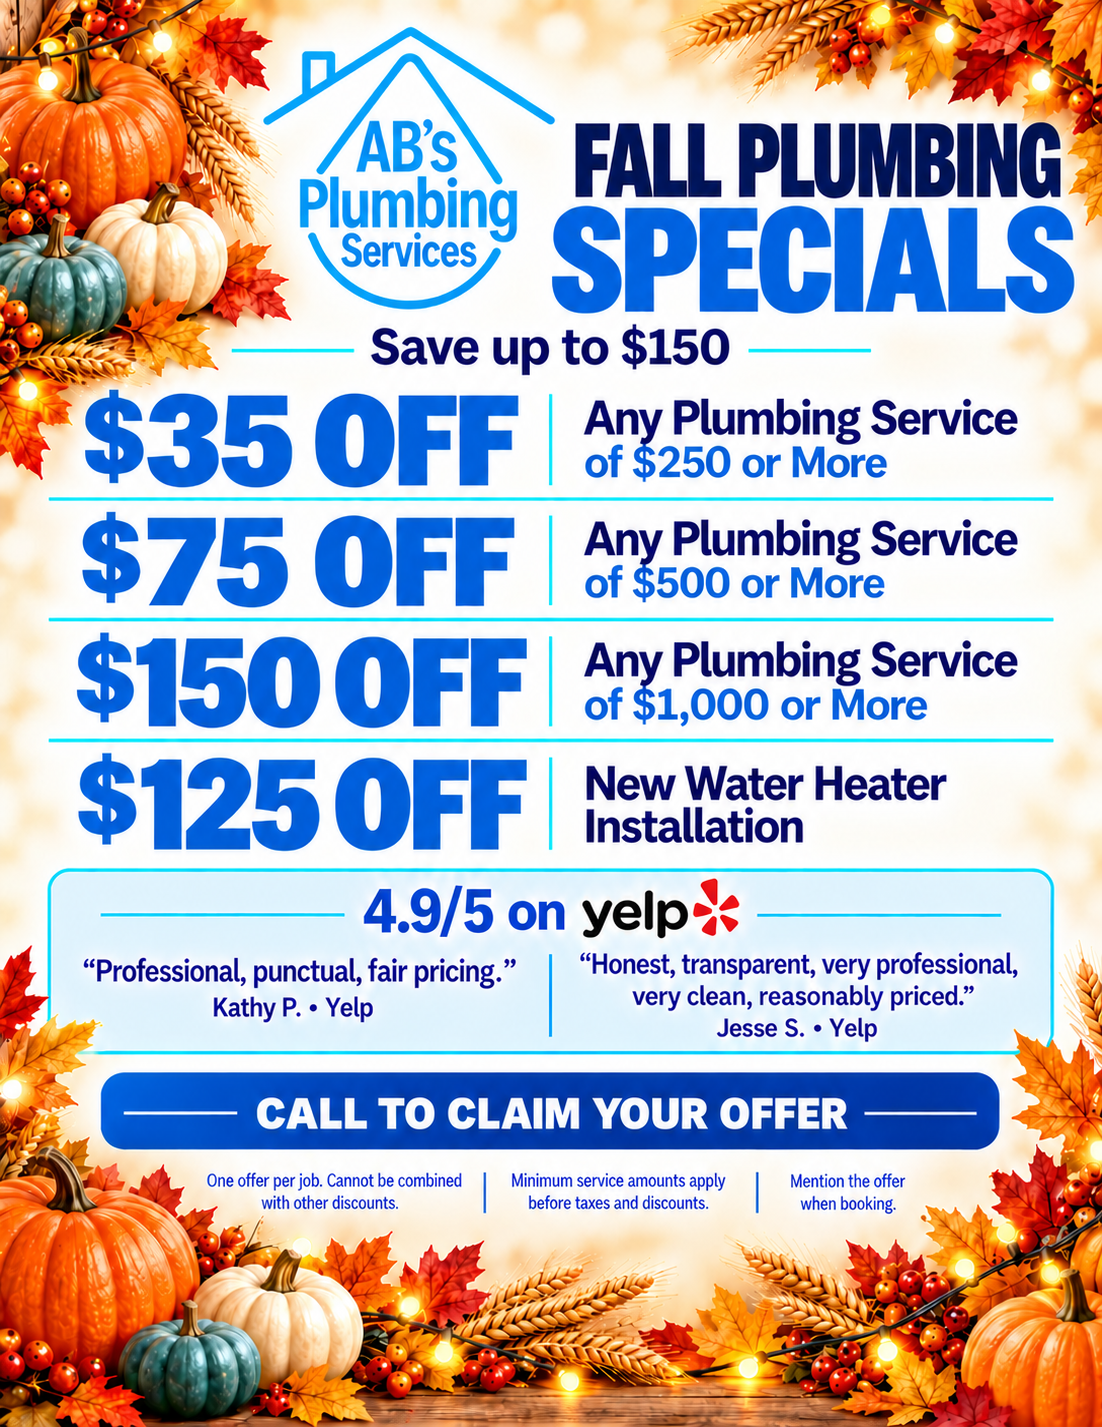
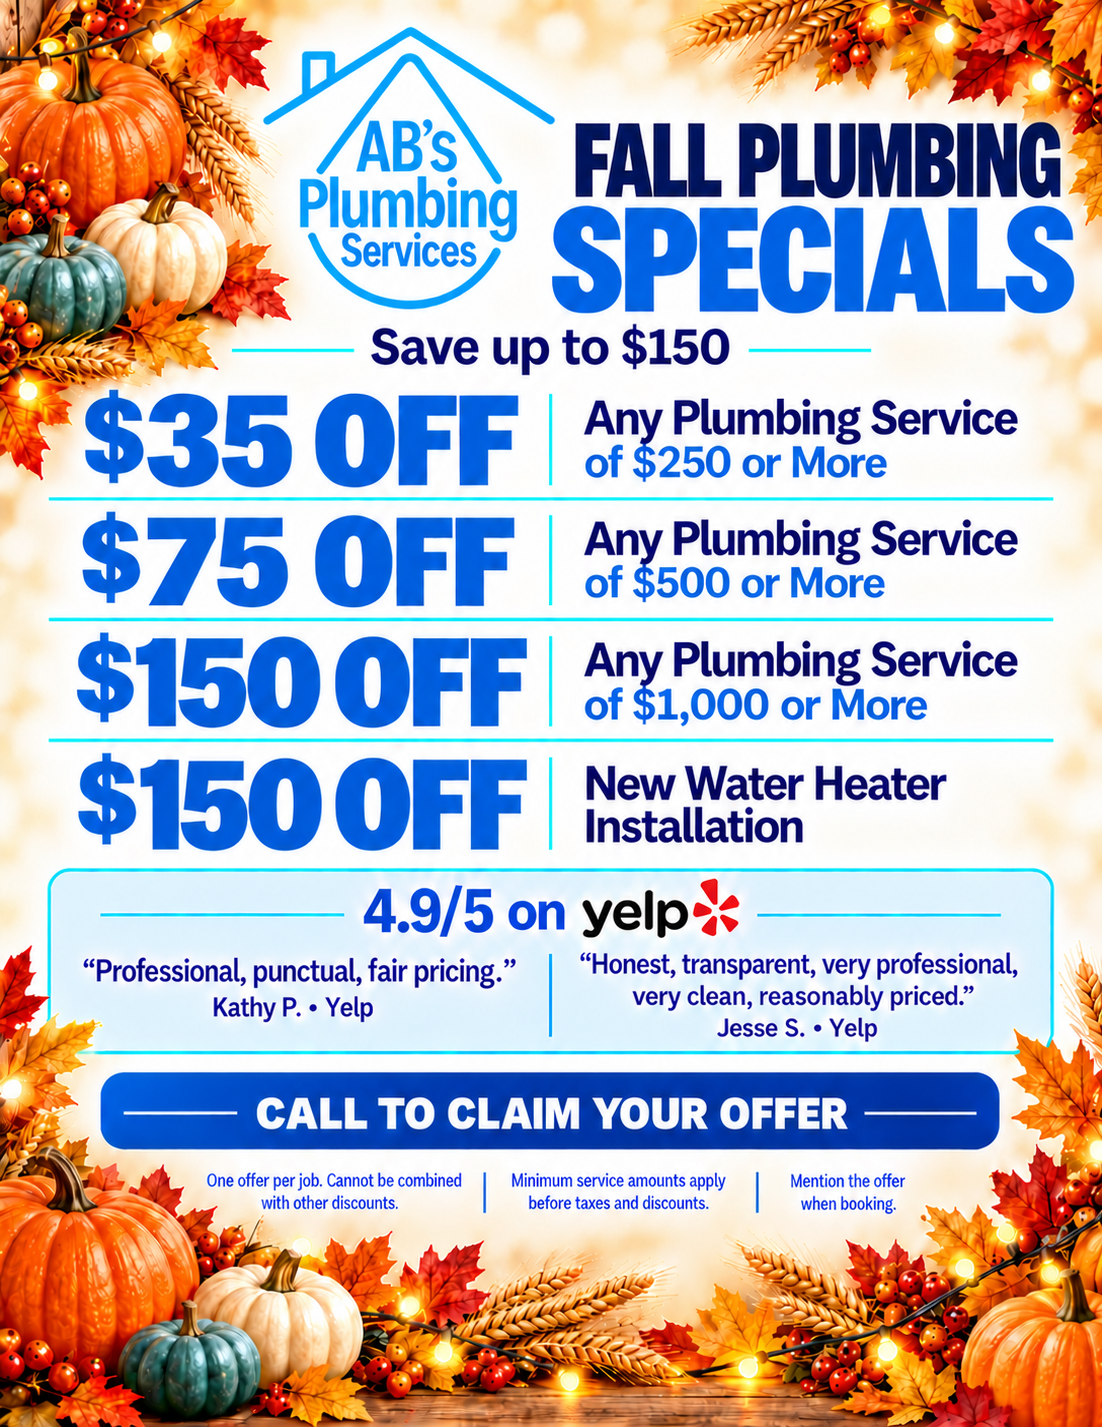
Update the fall flyers: $150 off a new water heater installation (was $125)
Claude-Session: https://claude.ai/code/session_011v2MkKNfKAuU7ZPEyXpDVC

diff --git a/src/components/offer-flyer.tsx b/src/components/offer-flyer.tsx
@@ -19,8 +19,8 @@ const flyers = {
     tall: { image: flyerTall, button: { left: 9.2, top: 75.2, width: 81.4, height: 5.3 } },
     wide: { image: flyerWide, button: { left: 4.5, top: 68, width: 34, height: 7.8 } },
     alt: {
-      en: 'AB’s Plumbing fall plumbing specials, save up to $150: $35 off any plumbing service of $250 or more, $75 off any plumbing service of $500 or more, $150 off any plumbing service of $1,000 or more, and $125 off a new water heater installation. Call to claim your offer.',
-      es: 'Especiales de plomería de otoño de AB’s Plumbing, ahorre hasta $150: $35 de descuento en servicios de $250 o más, $75 en servicios de $500 o más, $150 en servicios de $1,000 o más y $125 en la instalación de un calentador de agua nuevo. Llame para usar su oferta.',
+      en: 'AB’s Plumbing fall plumbing specials, save up to $150: $35 off any plumbing service of $250 or more, $75 off any plumbing service of $500 or more, $150 off any plumbing service of $1,000 or more, and $150 off a new water heater installation. Call to claim your offer.',
+      es: 'Especiales de plomería de otoño de AB’s Plumbing, ahorre hasta $150: $35 de descuento en servicios de $250 o más, $75 en servicios de $500 o más, $150 en servicios de $1,000 o más y $150 en la instalación de un calentador de agua nuevo. Llame para usar su oferta.',
     },
   },
 };

diff --git a/src/content/offers.ts b/src/content/offers.ts
@@ -64,8 +64,8 @@ export const campaign: Campaign = {
   id: 'fall-specials',
   heading: { en: 'Fall plumbing specials', es: 'Especiales de plomería de otoño' },
   teaser: {
-    en: 'Save up to $150 on plumbing work, plus $125 off a new water heater.',
-    es: 'Ahorre hasta $150 en trabajos de plomería, y $125 en un calentador de agua nuevo.',
+    en: 'Save up to $150 on plumbing work, and $150 off a new water heater.',
+    es: 'Ahorre hasta $150 en trabajos de plomería, y $150 en un calentador de agua nuevo.',
   },
 };
 
@@ -77,7 +77,7 @@ const fallSpecials: Offer[] = ([
   spend(150, '$1,000'),
   {
     id: 'fall-water-heater',
-    amount: { en: '$125 off', es: '$125 de descuento' },
+    amount: { en: '$150 off', es: '$150 de descuento' },
     title: { en: 'New water heater installation', es: 'Instalación de un calentador de agua nuevo' },
     howTo: mentionIt,
     service: 'water-heaters',

diff --git a/src/app/es/ofertas/page.tsx b/src/app/es/ofertas/page.tsx
@@ -8,7 +8,7 @@ export const revalidate = 3600;
 
 export const metadata: Metadata = {
   title: 'Ofertas y descuentos de plomería en Oakland',
-  description: `Especiales de plomería de otoño de AB’s Plumbing en Oakland: ahorre hasta $150 y $125 en un calentador de agua nuevo. Hablamos español. Llame al ${business.phone.display}.`,
+  description: `Especiales de plomería de otoño de AB’s Plumbing en Oakland: ahorre hasta $150, y $150 en un calentador de agua nuevo. Hablamos español. Llame al ${business.phone.display}.`,
   alternates: { canonical: '/es/ofertas', languages: languageAlternates('/offers', '/es/ofertas') },
 };
 

diff --git a/src/app/(site)/offers/page.tsx b/src/app/(site)/offers/page.tsx
@@ -8,7 +8,7 @@ export const revalidate = 3600;
 
 export const metadata: Metadata = {
   title: 'Plumbing Deals & Discounts in Oakland',
-  description: `Fall plumbing specials from AB’s Plumbing in Oakland: save up to $150, plus $125 off a new water heater. Open 24/7. Call ${business.phone.display}.`,
+  description: `Fall plumbing specials from AB’s Plumbing in Oakland: save up to $150, and $150 off a new water heater installation. Open 24/7. Call ${business.phone.display}.`,
   alternates: { canonical: '/offers', languages: languageAlternates('/offers', '/es/ofertas') },
 };
 

diff --git a/tests/offers.test.ts b/tests/offers.test.ts
@@ -70,7 +70,7 @@ test('the fall flyer offers are listed with their minimums, and the shared terms
     '$35 off: Any plumbing service of $250 or more',
     '$75 off: Any plumbing service of $500 or more',
     '$150 off: Any plumbing service of $1,000 or more',
-    '$125 off: New water heater installation',
+    '$150 off: New water heater installation',
   ]) assert.ok(titles.includes(line), `missing: ${line}`);
   assert.equal(offerTerms.length, 3);
   for (const t of offerTerms) assert.ok(t.en && t.es);
